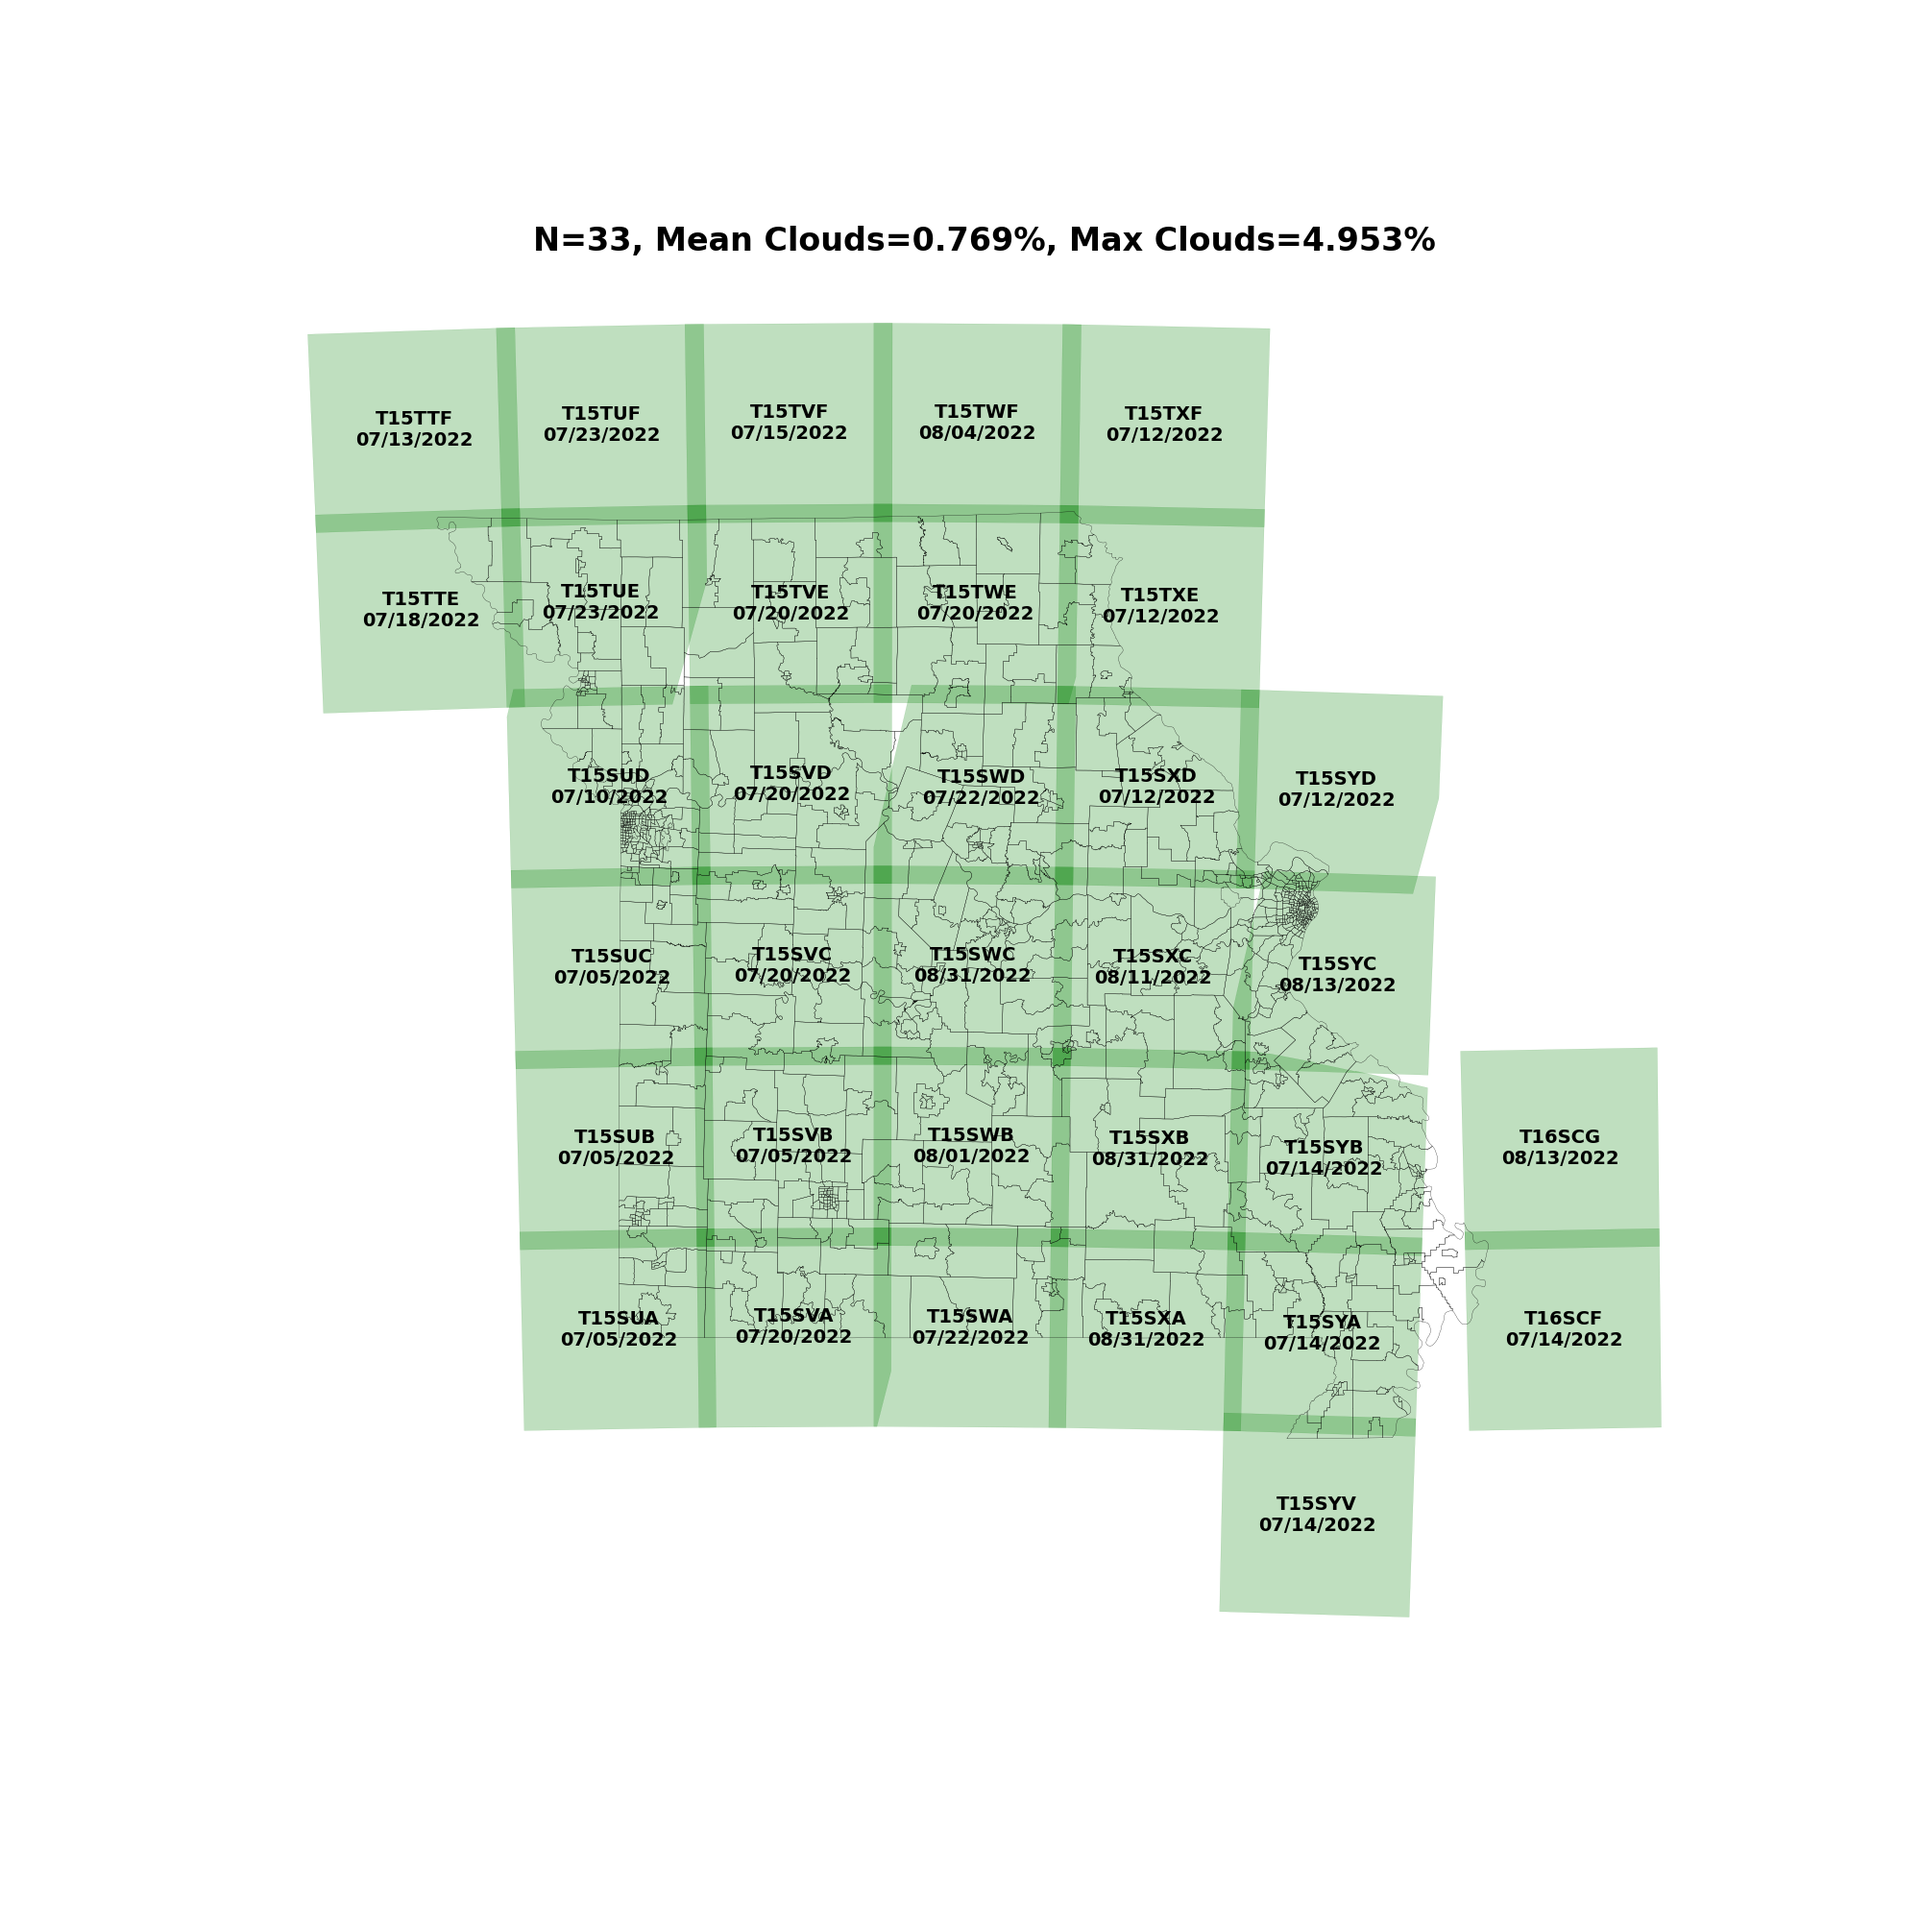
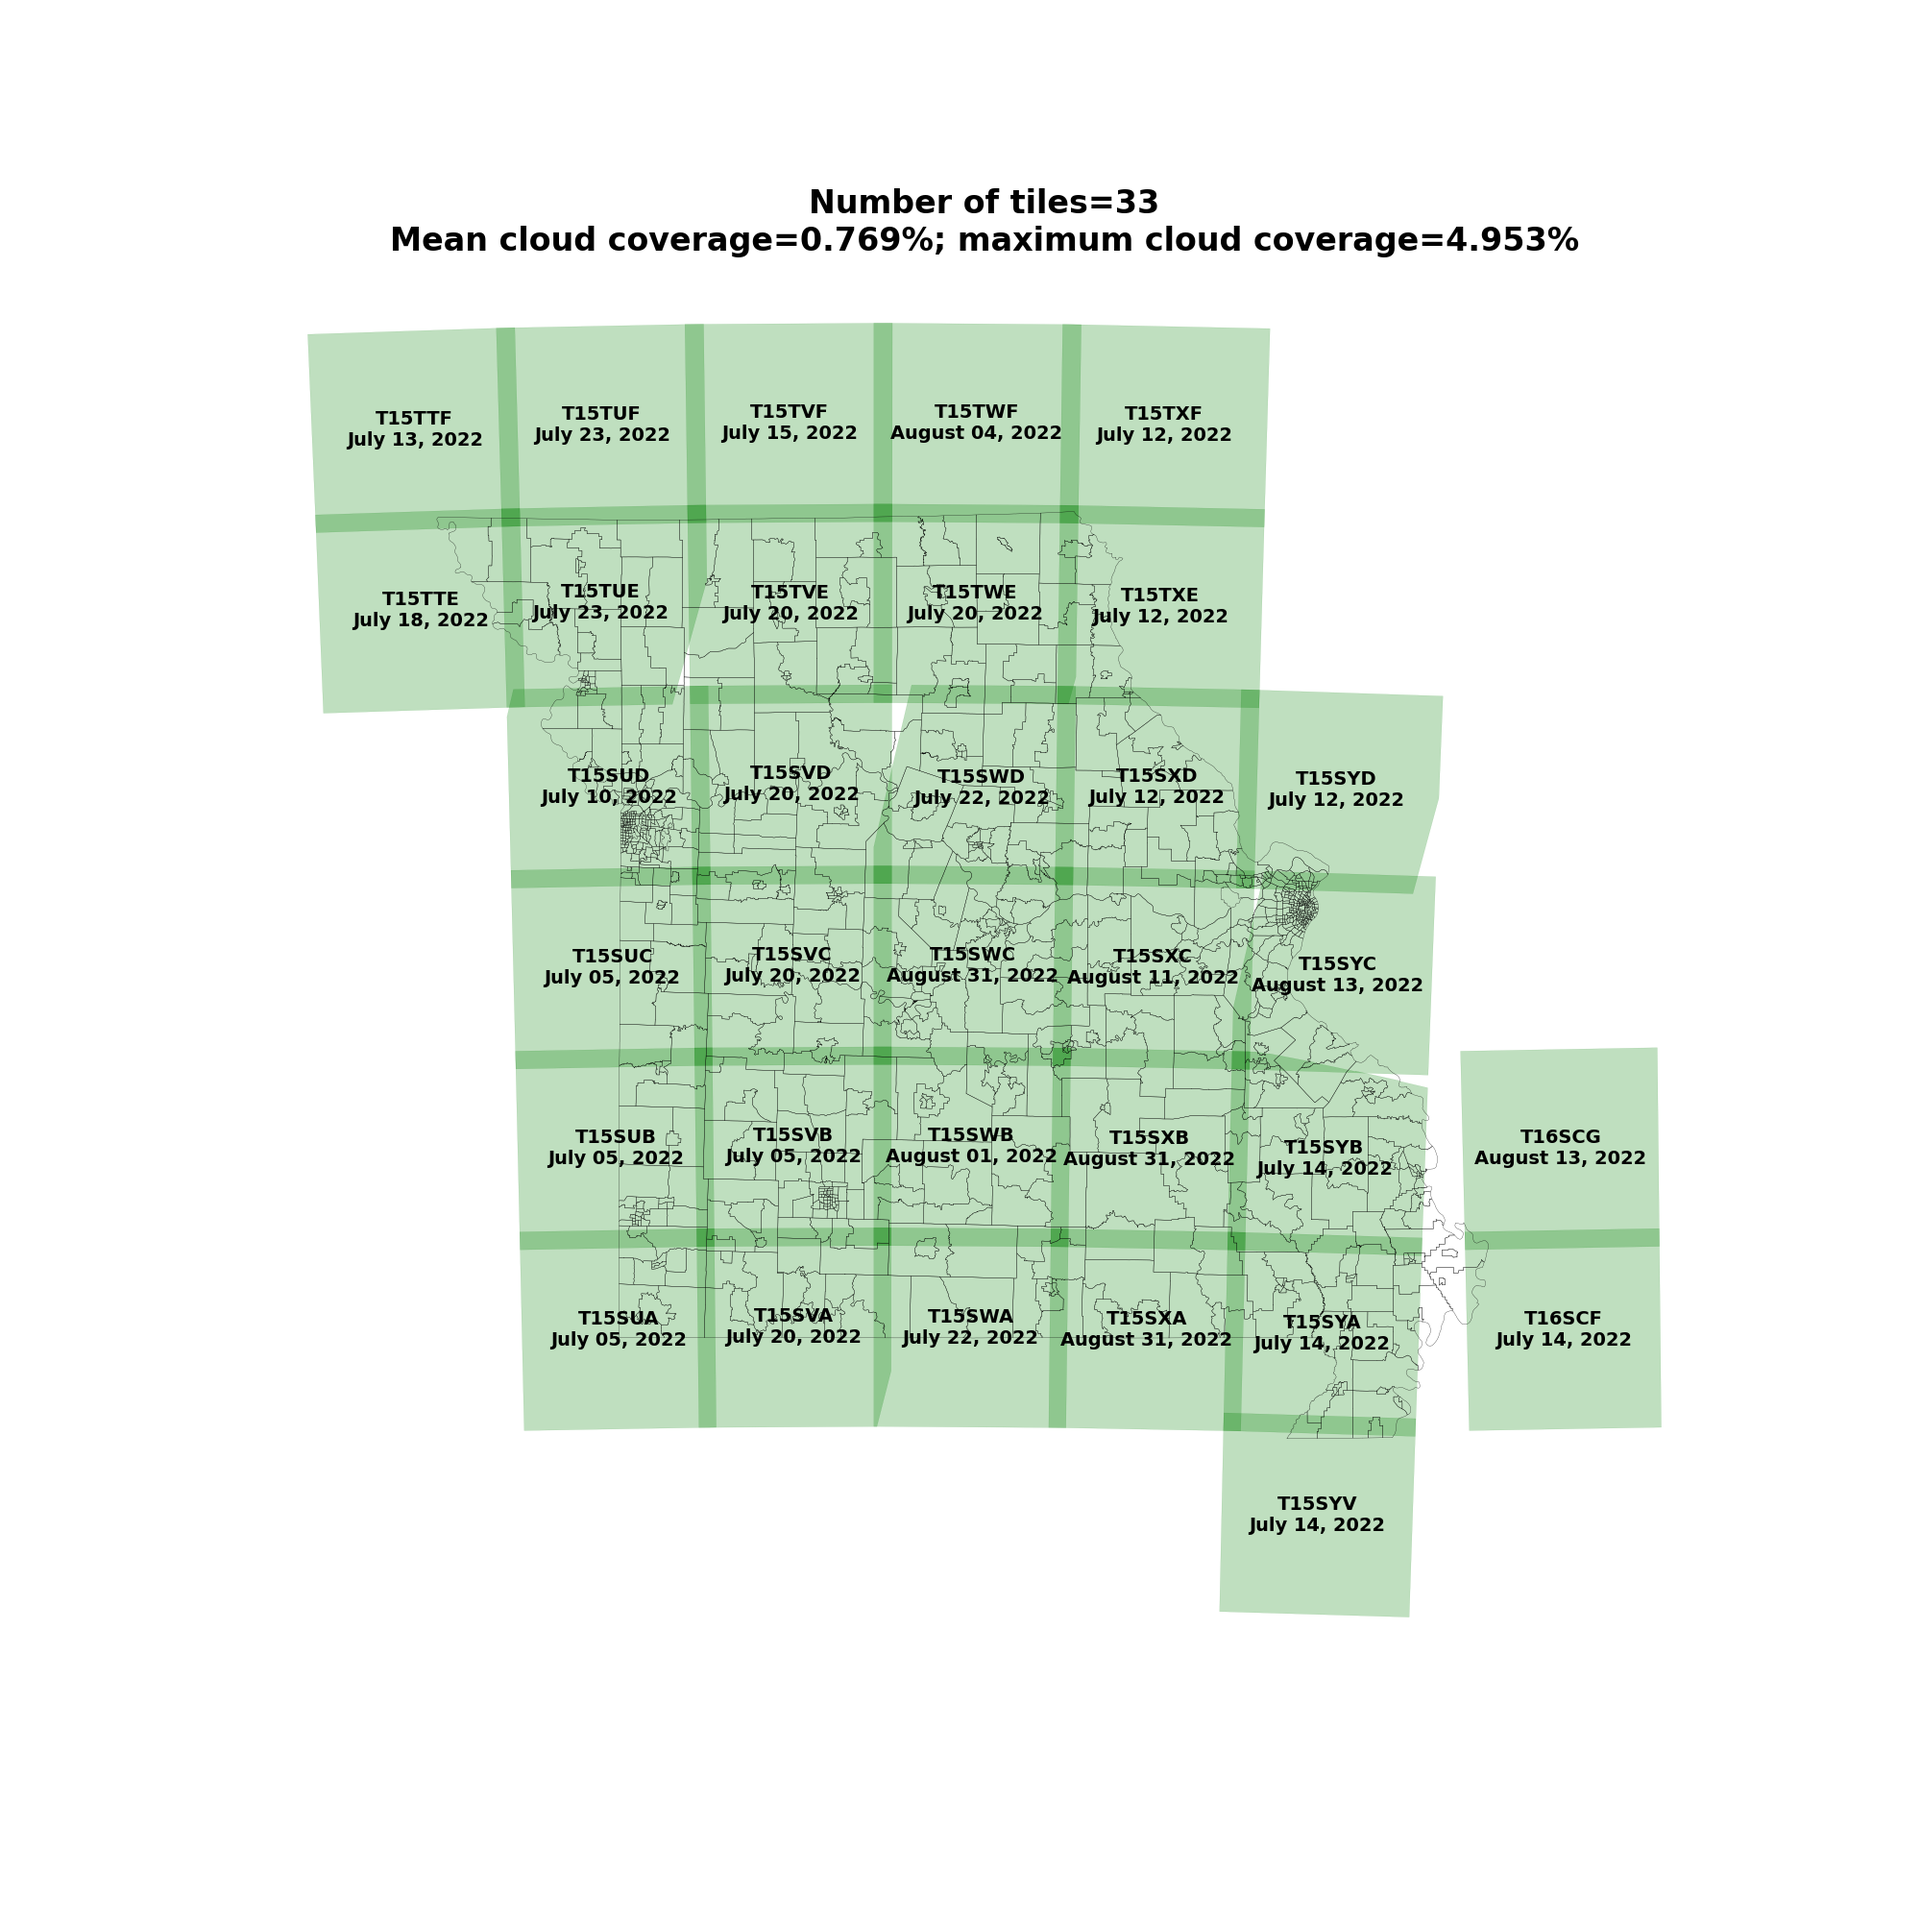
updated images

diff --git a/download.py b/download.py
@@ -9,6 +9,7 @@ import numpy as np
 import multiprocessing as mp
 import subprocess as sp
 import argparse
+from datetime import datetime
 
 # DATA_DIR = '/sentinel-images'
 DATA_DIR = os.getenv('DATA_DIR')
@@ -244,14 +245,20 @@ if __name__ == '__main__':
 		for i,c in enumerate(final_gdf.centroid):
 			rot,tile = final_gdf['s3'].iloc[i].split('_')[4:6]
 			date     = final_gdf['s3'].iloc[i].split('_')[2].split('T')[0]
-			date     = '/'.join([date[4:6],date[6:],date[0:4]])
-			s = '\n'.join([tile,date])
+			# date     = '/'.join([date[4:6],date[6:],date[0:4]])
+			year     = int(date[0:4])
+			month    = int(date[4:6])
+			day      = int(date[6:])
+			formatted_date = datetime(year,month,day).strftime("%B %d, %Y")
+			s = '\n'.join([tile,formatted_date])
 			ax.text(x=c.x,y=c.y,s=s,ha='center',va='center',fontsize=14,color='black',weight='bold')	
 		final_gdf.set_crs("EPSG:4326").plot(ax=ax,linewidth=0.2,color='g',alpha=0.25,edgecolor='g')
 		max_clouds = final_gdf['clouds'].max()
 		avg_clouds = final_gdf['clouds'].mean()
 		N          = len(final_gdf)
-		ax.set_title("N=%i, Mean Clouds=%.3f%%, Max Clouds=%.3f%%" % (N,avg_clouds,max_clouds),fontsize=24,weight='bold')
+		# ax.set_title("Number of tiles=%i, mean cloud coverage=%.3f%%, maximum cloud coverage=%.3f%%" % (N,avg_clouds,max_clouds),fontsize=24,weight='bold')
+		title = f"Number of tiles={N}\nMean cloud coverage={avg_clouds:.3f}%; maximum cloud coverage={max_clouds:.3f}%"
+		ax.set_title(title,fontsize=24,weight='bold')
 		ax.set_axis_off()		
 		plt.savefig("./figs/cleaned_final.png")
 		plt.close()
